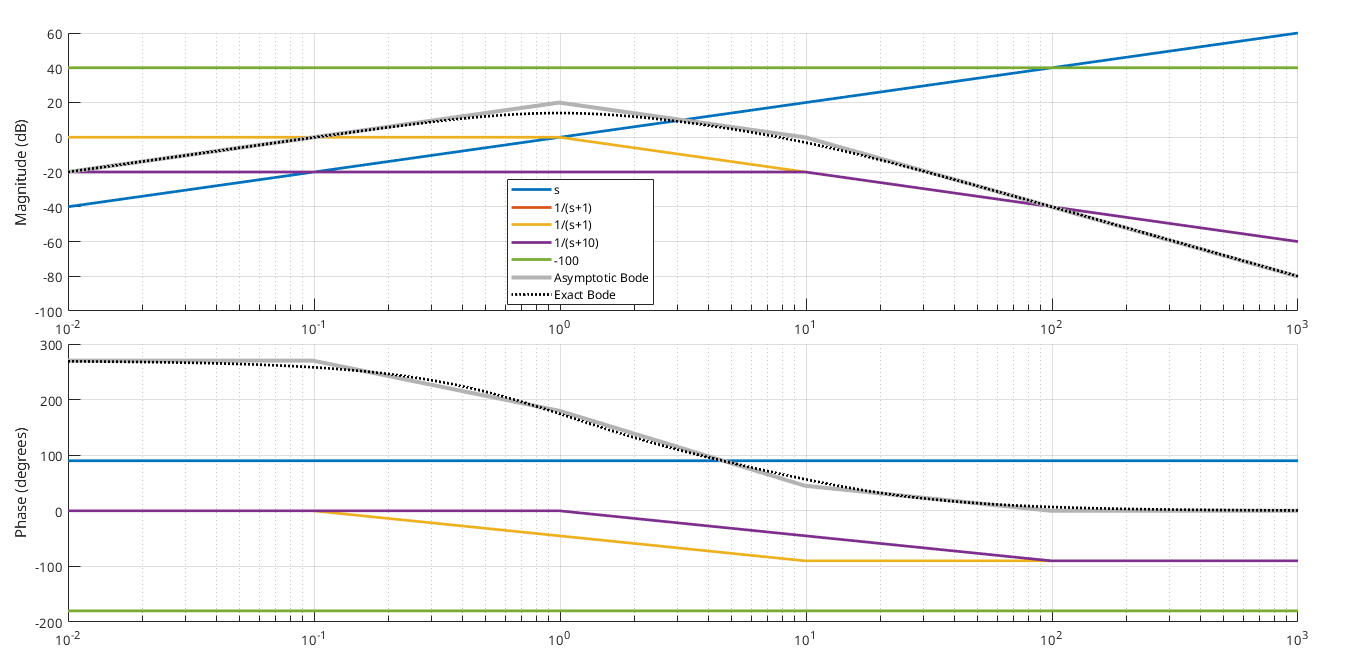
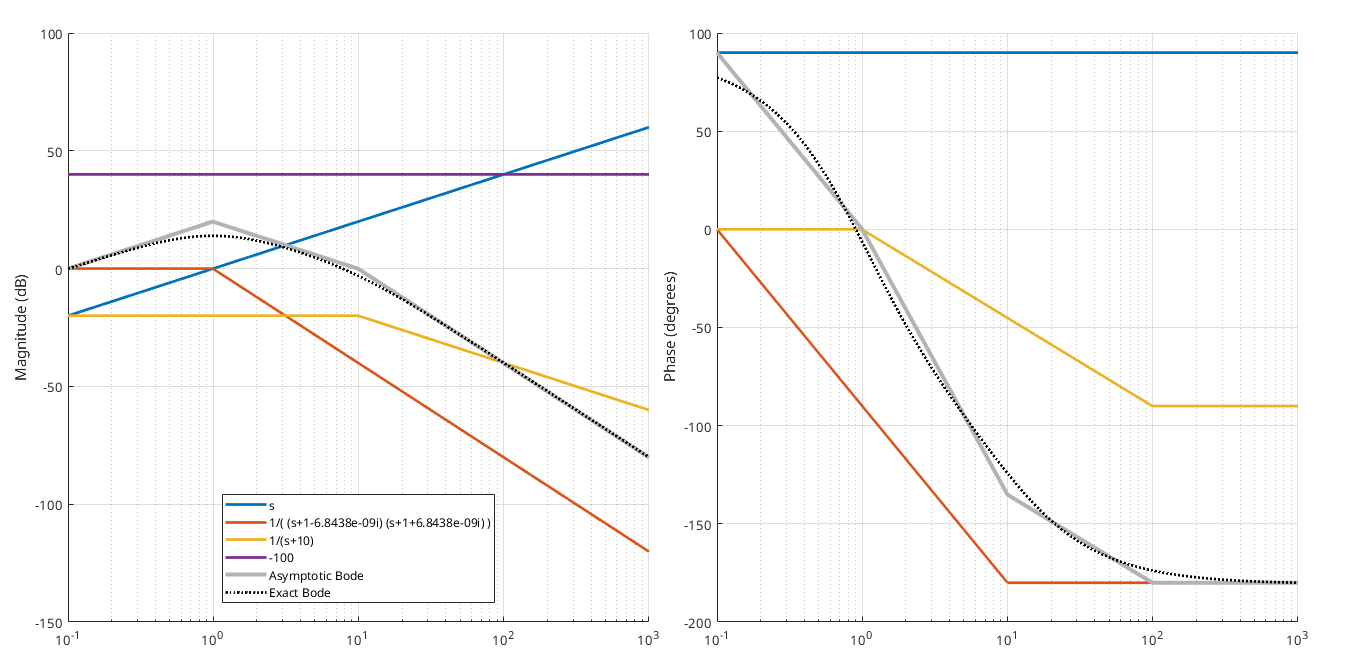
Phase angle warping.

diff --git a/bodas.m b/bodas.m
@@ -71,7 +71,7 @@ end
 
 wmin = W(1)-2;
 wmax = W(end)+2;
-omega = logspace(wmin, wmax, 1000);
+omega = logspace(wmin, wmax, 5000);
 
 s = tf('s');
 
@@ -82,7 +82,7 @@ s = tf('s');
 figure;
 set(gcf,'units','normalized','outerposition',[0 0 1 1])
 
-[ha, ] = tight_subplot(2, 1, [0.05, 0.05]);
+[ha, ] = tight_subplot(1, 2, [0.05, 0.05]);
 
 axes(ha(1));
 hold on;
@@ -202,7 +202,7 @@ end
 % The gain
 if k ~= 0
     kDb = 20*log10(abs(k));
-    for j = 1:length(omega)
+    for j = 1:length(omega)                                                                                                                                                                                                                                                                                                                                                                                                                                                                                                                                                                                                                                                                                                                                                                                                                                                                                                                                                                                                                                                                                                                                                                                                                                                                                                                                                                                                                                                                                                                                                                                                                                                                                                                                                                                                                                                                                                                                                                                                                                                                                                                                                                                                                                                                                                                                                                                                                                                                     
         C(j)=kDb;
     end
     
@@ -212,11 +212,13 @@ if k ~= 0
 end
 
 [mag,phase, wout] = bode(G, {10^wmin, 10^wmax});       
+phase = squeeze(phase);
+mag = squeeze(mag);
 
 % Combinations
 M = sum([sum(A,1);sum(B,1);C],1);
 plot(omega, M, 'LineWidth',3, 'LineStyle', '-', 'Color', [.7, .7,.7]);
-plot(wout, 20*log10(squeeze(mag)), 'LineWidth', 2, 'LineStyle', ':', 'Color', 'k');
+plot(wout, 20*log10(mag), 'LineWidth', 2, 'LineStyle', ':', 'Color', 'k');
 
 legend_text{end-1} = "Asymptotic Bode";
 legend_text{end}= "Exact Bode";
@@ -312,11 +314,10 @@ end
 
 % Combinations
 S = sum([sum(A,1);sum(B,1);C],1);
-if min(S) < 0
-    S = S + 180;
-end
+dphase = S(end) - phase(end);
+
 plot(omega, S, 'LineWidth',3, 'LineStyle', '-', 'Color', [.7, .7,.7]);
-plot(wout, squeeze(phase), 'LineWidth', 2, 'LineStyle', ':', 'Color', 'k');
+plot(wout, phase+dphase, 'LineWidth', 2, 'LineStyle', ':', 'Color', 'k');
 ylabel('Phase (degrees)')
 xlabel('Frequency (log scale)')
 set(gca, 'XScale', 'log');
@@ -328,7 +329,7 @@ axes(hb(1));
 hold on;
 grid on;
 plot(omega, M, 'LineWidth',3, 'LineStyle', '-', 'Color', [.7, .7,.7]);
-plot(wout, 20*log10(squeeze(mag)), 'LineWidth', 2, 'LineStyle', ':', 'Color', 'k');
+plot(wout, 20*log10(mag), 'LineWidth', 2, 'LineStyle', ':', 'Color', 'k');
 legend({'Asymptotic Bode', 'Exact Bode'}, 'Location', 'best');
 ylabel('Magnitude (dB)');
 set(gca, 'XScale', 'log');
@@ -337,8 +338,7 @@ axes(hb(2));
 hold on;
 grid on;
 plot(omega, S, 'LineWidth',3, 'LineStyle', '-', 'Color', [.7, .7,.7]);
-plot(wout, squeeze(phase), 'LineWidth', 2, 'LineStyle', ':', 'Color', 'k');
-legend({'Asymptotic Bode', 'Exact Bode'}, 'Location', 'best');
+plot(wout, phase+dphase, 'LineWidth', 2, 'LineStyle', ':', 'Color', 'k');
 ylabel('Phase (degrees)')
 xlabel('Frequency (log scale)')
 set(gca, 'XScale', 'log');

diff --git a/ex5.m b/ex5.m
@@ -1,0 +1,3 @@
+s = tf('s');
+sys = 20*(s+4)^2 / (s * (s^2+6*s+100));
+bodas(sys)

diff --git a/ex6.m b/ex6.m
@@ -1,0 +1,3 @@
+s = tf('s');
+sys = 1 / (s^2+6*s+100);
+bodas(sys)
